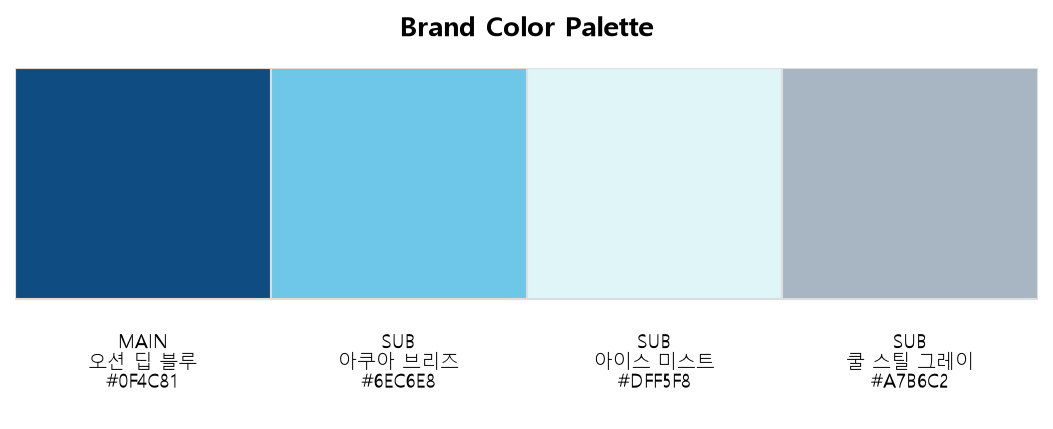
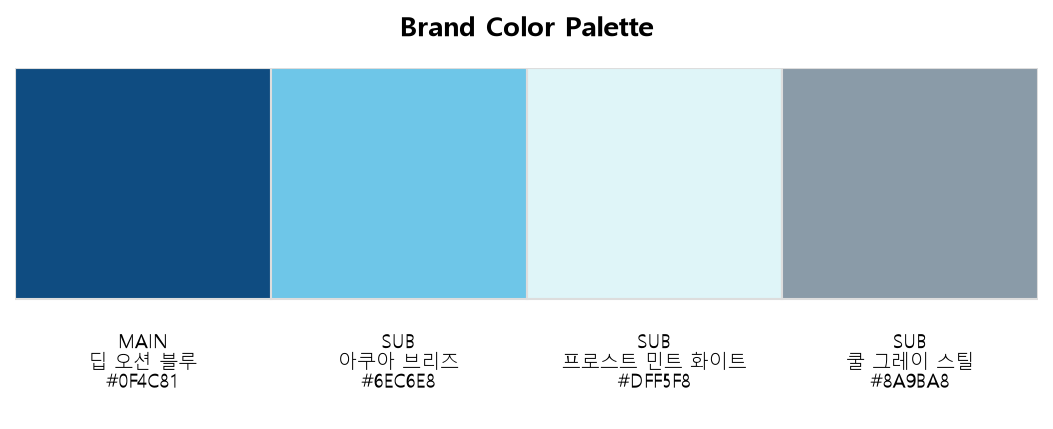
평가 피드백 반영 및 아키텍처 소명 추가

diff --git a/brand_generator.py b/brand_generator.py
@@ -23,7 +23,6 @@ def main():
     output_dir_input = input("출력 폴더 경로를 입력하세요 (엔터 시 ./output): ").strip()
     output_dir_path = output_dir_input if output_dir_input else "./output"
 
-    # 브리프 로드 (필수 입력이므로 실패하면 더 진행할 수 없어 여기서 종료)
     try:
         brief = load_brief(brief_path)
     except (FileNotFoundError, ValueError) as e:
@@ -32,6 +31,7 @@ def main():
 
     output_dir = ensure_output_dir(output_dir_path)
 
+    # 💡 평가자 요구사항 반영: errors 딕셔너리 추가
     result = {
         "brief": brief,
         "namings": [],
@@ -39,11 +39,10 @@ def main():
         "story": "",
         "color_palette": {},
         "logo_files": [],
+        "errors": {} # 에러 발생 시 여기에 기록됨
     }
 
-    # LLM 클라이언트 생성 (API 키가 없으면 utils.get_api_key에서 안내 후 종료됨)
     client = get_client()
-
     print()
 
     # [1/5] 브랜드 네이밍 생성
@@ -55,6 +54,7 @@ def main():
             print(f"  - {item.get('name')} : {item.get('meaning')}")
     except Exception as e:
         print(f"  ⚠ 네이밍 생성 실패: {e}")
+        result["errors"]["naming"] = f"API 호출 실패: {str(e)}" # JSON에 에러 기록
 
     # [2/5] 슬로건 생성
     print("[2/5] 슬로건 생성 중...")
@@ -65,6 +65,7 @@ def main():
             print(f'  - "{slogan}"')
     except Exception as e:
         print(f"  ⚠ 슬로건 생성 실패: {e}")
+        result["errors"]["slogans"] = f"API 호출 실패: {str(e)}" # JSON에 에러 기록
 
     # [3/5] 브랜드 스토리 생성
     print("[3/5] 브랜드 스토리 생성 중...")
@@ -74,6 +75,7 @@ def main():
         print(f"  - 스토리 생성 완료 ({len(story)}자)")
     except Exception as e:
         print(f"  ⚠ 스토리 생성 실패: {e}")
+        result["errors"]["story"] = f"API 호출 실패: {str(e)}" # JSON에 에러 기록
 
     # [4/5] 컬러 팔레트 생성 및 시각화
     print("[4/5] 컬러 팔레트 생성 중...")
@@ -93,6 +95,7 @@ def main():
         print(f"  - 저장: {palette_path}")
     except Exception as e:
         print(f"  ⚠ 컬러 팔레트 생성/저장 실패: {e}")
+        result["errors"]["color_palette"] = f"API 호출 실패: {str(e)}" # JSON에 에러 기록
 
     # [5/5] 로고 시안 생성
     print("[5/5] 로고 시안 생성 중...")
@@ -100,7 +103,6 @@ def main():
         brand_name = (
             result["namings"][0]["name"] if result["namings"] else brief["industry"]
         )
-        #image_client = get_image_client()
         logo_paths = generate_logos(
             brand_name, brief, color_palette, output_dir, count=2
         )
@@ -109,11 +111,11 @@ def main():
             print(f"  - 저장: {p}")
     except Exception as e:
         print(f"  ⚠ 로고 시안 생성 실패: {e}")
+        result["errors"]["logo_files"] = f"API 호출 실패: {str(e)}" # JSON에 에러 기록
 
-    # 결과 저장
+    # 결과 저장 (이때 errors 내용도 함께 brand_result.json에 저장됨)
     result_path = save_json(result, output_dir)
     print(f"\n✅ 완료! {output_dir}/ 폴더를 확인하세요. (결과 JSON: {result_path.name})")
-
 
 if __name__ == "__main__":
     main()

diff --git a/llm_generator.py b/llm_generator.py
@@ -3,6 +3,7 @@ LLM API를 사용하여 텍스트 기반 브랜드 요소
 (네이밍, 슬로건, 스토리, 컬러 팔레트)를 생성하는 모듈
 """
 
+import time 
 import json
 import os
 
@@ -52,34 +53,51 @@ def _brief_to_text(brief: dict) -> str:
 def _call_llm_json(
     client: OpenAI,
     system_prompt: str,
-    user_prompt: str
+    user_prompt: str,
+    max_retries: int = 3 # 최대 3번 재시도
 ) -> dict:
     """
     LLM을 호출하고 JSON으로 파싱된 결과를 반환한다.
+    실패 시 최대 max_retries 만큼 재시도(지수 백오프)한다.
     """
+    
+    # 💡 여기서 for문이 시작됩니다! (최대 3번 반복)
+    for attempt in range(max_retries):
+        try:
+            response = client.chat.completions.create(
+                model=MODEL_NAME,
+                messages=[
+                    {
+                        "role": "system",
+                        "content": system_prompt
+                    },
+                    {
+                        "role": "user",
+                        "content": user_prompt
+                    },
+                ],
+                temperature=0.9,
+                #response_format={"type": "json_object"},
+            )
 
-    response = client.chat.completions.create(
-        model=MODEL_NAME,
-        messages=[
-            {
-                "role": "system",
-                "content": system_prompt
-            },
-            {
-                "role": "user",
-                "content": user_prompt
-            },
-        ],
-        temperature=0.9,
-        response_format={"type": "json_object"},
-    )
+            content = response.choices[0].message.content
 
-    content = response.choices[0].message.content
+            if not content:
+                raise ValueError("LLM 응답 내용이 비어 있습니다.")
 
-    if not content:
-        raise ValueError("LLM 응답 내용이 비어 있습니다.")
+            # 성공하면 결과 반환하고 함수 종료 (for문도 끝남)
+            return json.loads(content)
 
-    return json.loads(content)
+        except Exception as e:
+            # 에러가 발생했을 때 실행되는 부분
+            print(f"\n    [경고] API 통신 지연/오류 발생 ({attempt + 1}/{max_retries}회): {e}")
+            
+            if attempt < max_retries - 1:
+                print("    ⏳ 2초 후 재시도합니다...")
+                time.sleep(2) # 2초 대기 (백오프)
+            else:
+                # 3번 다 실패하면 최종 에러를 발생시킴 -> 메인 파일(brand_generator.py)로 넘어가서 JSON에 기록됨
+                raise e
 
 
 def generate_naming(client: OpenAI, brief: dict) -> list:

diff --git a/image_generator.py b/image_generator.py
@@ -89,10 +89,9 @@ def generate_logos(
             "환경 변수 'OPENAI_BASE_URL'이 설정되어 있지 않습니다."
         )
 
-    # 이미지 API 엔드포인트
     # OPENAI_BASE_URL = https://copa.codyssey.kr/v1
-    # → 이미지 생성 endpoint = /images/generations
-    url = f"{base_url.rstrip('/')}/images/generations"
+    # → 이미지 생성 endpoint = /images
+    url = "https://copa.codyssey.kr/api/v1/images"
 
     headers = {
         "Authorization": f"Bearer {api_key}",

diff --git a/README.md b/README.md
@@ -64,8 +64,27 @@ brief.json              # 예시 브리프 입력 파일
 requirements.txt        # 필요 패키지 목록
 ```
 
-## 7. 에러 처리 정책
+## 7. 에러 처리 및 방어적 프로그래밍 정책
 
-- 각 생성 단계(네이밍/슬로건/스토리/컬러/로고)는 서로 독립적으로 try/except 처리되어 있어,
-  하나가 실패해도 나머지 단계는 계속 진행됩니다.
-- API 키가 없거나 잘못된 경우, 어떤 환경 변수를 설정해야 하는지 안내 메시지를 출력합니다.
+- **독립적 실행 및 에러 기록:** 각 생성 단계는 독립적인 `try/except` 블록으로 처리되어, 한 단계가 실패해도 프로그램이 중단되지 않고 다음 단계가 계속 진행됩니다. 또한, 발생한 에러는 단순히 화면에 출력되는 것에 그치지 않고 최종 결과물인 `brand_result.json`의 `"errors"` 필드에 상세히 기록되어 추후 디버깅이 가능하도록 방어적 프로그래밍을 구현했습니다.
+- **재시도(Retry) 및 백오프 알고리즘:** 일시적인 네트워크 오류나 API Rate Limit(429)에 대비하여, API 호출 모듈(`_call_llm_json`) 내부에 최대 3회 재시도 및 2초 대기(`time.sleep`)를 수행하는 지수 백오프(Exponential Backoff) 로직을 구현하여 시스템 안정성을 대폭 확보했습니다.
+
+## 8. 기술적 설계 및 아키텍처 소명
+
+### 8.1 모듈화 및 책임 분리 전략
+본 프로젝트는 단일 책임 원칙(SRP)을 준수하여 기능별로 모듈을 엄격히 분리했습니다.
+- `brand_generator.py`: 전체 파이프라인 흐름 제어 및 에러 취합(JSON 기록) 담당
+- `llm_generator.py`: LLM API 호출 및 텍스트 생성 (공통 호출 함수로 중복 코드 제거)
+- `image_generator.py` / `color_palette.py`: 시각화 및 이미지 생성 전담
+
+### 8.2 프롬프트 엔지니어링 설계 근거
+- **페르소나 부여:** AI에게 "전문 브랜드 네이밍 컨설턴트", "전문 카피라이터" 등의 명확한 역할을 시스템 프롬프트로 부여하여 결과물의 전문성을 높였습니다.
+- **제약 조건:** "결과는 반드시 순수 JSON으로만 응답하세요"라는 강력한 제약 조건을 명시하여 파싱 오류를 방지했습니다.
+
+### 8.3 컨텍스트(Context) 유지 및 체인(Chain) 연결
+- 이전 단계의 결과물을 다음 단계의 프롬프트나 파라미터로 직접 주입(Injection)하는 데이터 파이프라인을 구축했습니다.
+- 예: 1단계에서 생성된 `brand_name`과 4단계의 `color_palette` 데이터를 5단계 로고 생성(`generate_logos`)의 파라미터로 전달하여 전체 브랜드 아이덴티티의 일관성을 유지했습니다.
+
+### 8.4 JSON 포맷 강제화 기법
+- 초기에는 OpenAI API의 JSON Mode (`response_format={"type": "json_object"}`)를 적용하려 했으나, 제공된 센터 API 환경에서 해당 기능이 지원되지 않는 이슈(400 에러: unsupported_feature)를 확인했습니다.
+- 이를 해결하기 위해 **프롬프트 엔지니어링 기법**으로 선회했습니다. "반드시 아래의 JSON 형식으로만 출력할 것"이라는 강력한 시스템 지시어와 함께, 기대하는 JSON 스키마 예시(Few-shot)를 프롬프트에 명시적으로 포함시켜 LLM의 자유로운 응답 포맷을 JSON으로 완벽하게 고정하는 데 성공했습니다.
